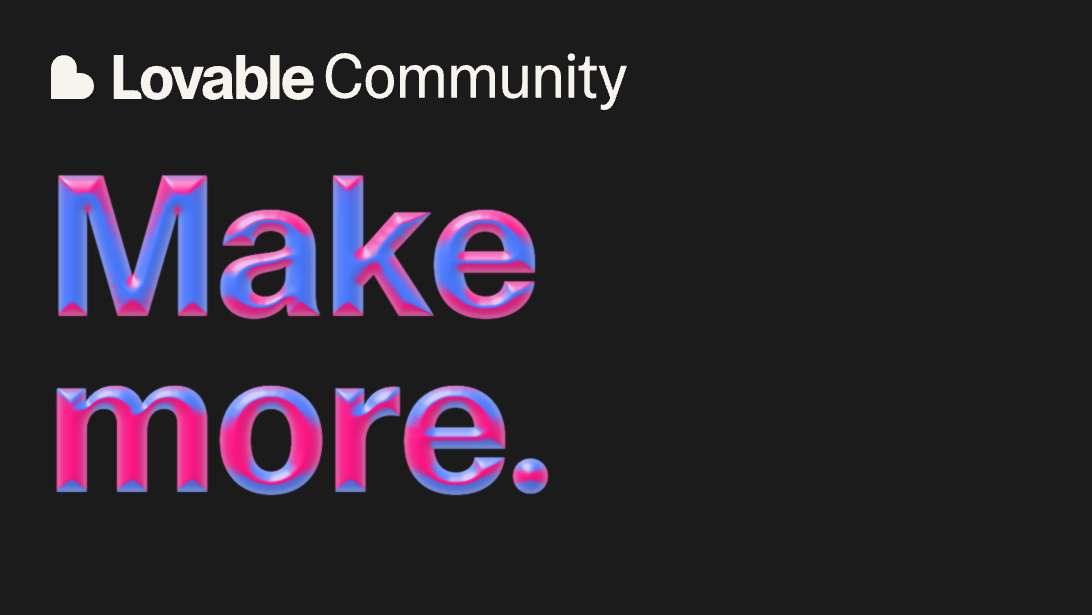
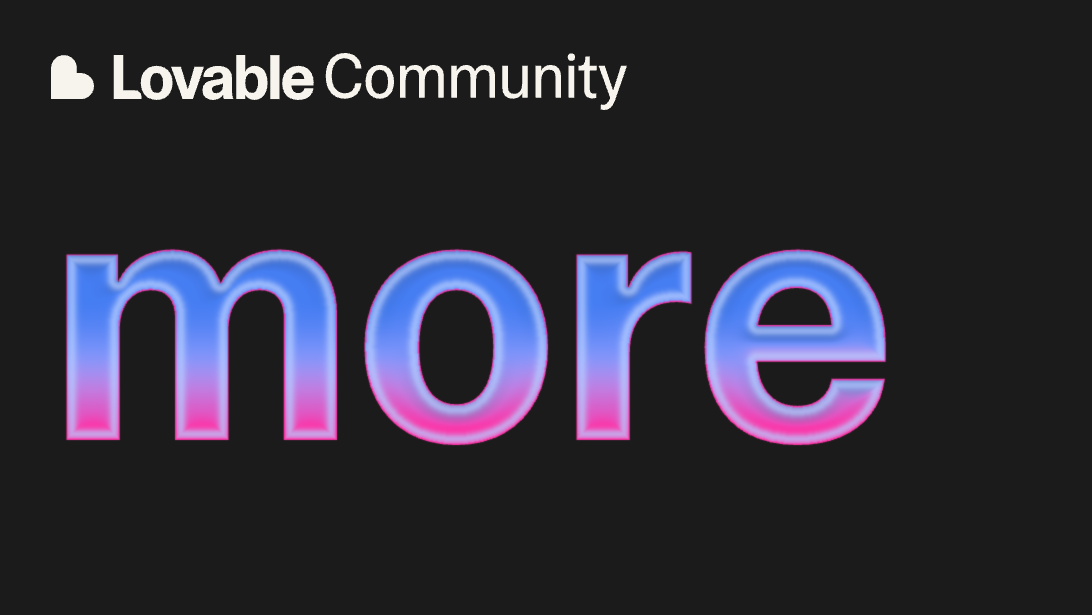
Refine soft Chrome and repair native text formatting shortcuts

Changed region(s): [[0.0311, 0.278, 0.8095, 0.8033]]

diff --git a/studio/src/components/editor-widgets/EditorTextBlock.tsx b/studio/src/components/editor-widgets/EditorTextBlock.tsx
@@ -6,6 +6,7 @@ import './editor-widget-blocks.css';
 export type TextRun = { text: string; bold?: boolean; italic?: boolean; underline?: boolean };
 export type EditorTextValue = {
   runs: TextRun[];
+  inlineFormatting?: boolean;
   style: 'Heading 1' | 'Heading 2' | 'Heading 3' | 'Text' | 'Small text';
   size: number;
   align: 'left' | 'center' | 'right';
@@ -27,7 +28,7 @@ export function textRunsFromElement(root: HTMLElement): TextRun[] {
     if (node !== root && ['DIV', 'P'].includes(node.tagName) && runs.length) runs.push({ text: '\n' });
     const weight = node.style.fontWeight;
     const next = { ...marks,
-      ...(['B', 'STRONG'].includes(node.tagName) || weight === 'bold' || Number(weight) >= 600 ? { bold: true } : weight ? { bold: false } : {}),
+      ...(['B', 'STRONG'].includes(node.tagName) || weight === 'bold' || Number(weight) >= 700 ? { bold: true } : weight ? { bold: false } : {}),
       ...(['I', 'EM'].includes(node.tagName) || node.style.fontStyle === 'italic' ? { italic: true } : node.style.fontStyle === 'normal' ? { italic: false } : {}),
       ...(node.tagName === 'U' || node.style.textDecoration.includes('underline') ? { underline: true } : node.style.textDecoration === 'none' ? { underline: false } : {}),
     };
@@ -38,8 +39,8 @@ export function textRunsFromElement(root: HTMLElement): TextRun[] {
 }
 
 /** Controlled content, selection-aware formatting, and Asset controls. No Studio dependency. */
-export function EditorTextBlock({ value, onChange, editable = true, toolbarHost }: {
-  value: EditorTextValue; onChange: (value: EditorTextValue) => void; editable?: boolean; toolbarHost?: HTMLElement | null;
+export function EditorTextBlock({ value, onChange, editable = true, toolbarHost, baseWeight, placeholder = 'Type something…', showPlaceholder = editable, onFormatBlock }: {
+  value: EditorTextValue; onChange: (value: EditorTextValue) => void; editable?: boolean; toolbarHost?: HTMLElement | null; baseWeight?: number; placeholder?: string; showPlaceholder?: boolean; onFormatBlock?: (mark: 'bold'|'italic'|'underline')=>void;
 }) {
   const root = useRef<HTMLDivElement>(null);
   const range = useRef<Range | null>(null);
@@ -52,29 +53,47 @@ export function EditorTextBlock({ value, onChange, editable = true, toolbarHost 
     if (!root.current || lastWritten.current === serialized) return;
     root.current.replaceChildren(...value.runs.map(run => {
       const span = document.createElement('span'); span.textContent = run.text;
-      if (run.bold !== undefined) span.style.fontWeight = run.bold ? '600' : '400';
+      if (run.bold !== undefined) span.style.fontWeight = run.bold ? '700' : '600';
       if (run.italic !== undefined) span.style.fontStyle = run.italic ? 'italic' : 'normal';
       if (run.underline !== undefined) span.style.textDecoration = run.underline ? 'underline' : 'none';
       return span;
     }));
     lastWritten.current = serialized;
   }, [value.runs]);
+  const boldAtSelection=()=>{
+    const selection=window.getSelection(),anchor=selection?.anchorNode;
+    const element=anchor instanceof HTMLElement?anchor:anchor?.parentElement;
+    return Number(element?getComputedStyle(element).fontWeight:baseWeight??600)>=700;
+  };
   useEffect(() => {
     const track = () => {
       const selection = window.getSelection();
       if (!selection?.rangeCount || !root.current?.contains(selection.anchorNode)) return;
       range.current = selection.getRangeAt(0).cloneRange();
-      setMarks({ bold: document.queryCommandState('bold'), italic: document.queryCommandState('italic'), underline: document.queryCommandState('underline') });
+      setMarks({ bold: boldAtSelection(), italic: document.queryCommandState('italic'), underline: document.queryCommandState('underline') });
     };
     document.addEventListener('selectionchange', track); return () => document.removeEventListener('selectionchange', track);
   }, []);
-  const commit = () => { if (!root.current) return; const runs = textRunsFromElement(root.current); lastWritten.current = JSON.stringify(runs); onChange({ ...value, runs }); };
+  const commit = () => { if (!root.current) return; const runs = textRunsFromElement(root.current); lastWritten.current = JSON.stringify(runs); onChange({ ...value, runs, ...(root.current.dataset.inlineFormatting?{inlineFormatting:true}:{}) }); };
   const format = (command: string) => {
+    if(onFormatBlock&&(!range.current||range.current.collapsed)){onFormatBlock(command as 'bold'|'italic'|'underline');return;}
     root.current?.focus();
     const selection = window.getSelection();
     if (range.current && root.current?.contains(range.current.commonAncestorContainer)) { selection?.removeAllRanges(); selection?.addRange(range.current); }
-    document.execCommand(command); commit();
-    setMarks({ bold: document.queryCommandState('bold'), italic: document.queryCommandState('italic'), underline: document.queryCommandState('underline') });
+    // Legacy block weights used to override every span. Materialize that visible
+    // weight once before allowing character-level marks to override the block.
+    if(baseWeight!==undefined&&!root.current?.dataset.inlineFormatting){
+      root.current?.querySelectorAll<HTMLElement>('span').forEach(span=>{span.style.fontWeight=getComputedStyle(span).fontWeight;});
+      root.current?.setAttribute('data-inline-formatting','true');
+    }
+    // Chromium considers 600 bold; temporarily expose it as the native normal
+    // weight while the command toggles, then restore the brand's 600 minimum.
+    const editor=root.current,weight=editor?.style.getPropertyValue('font-weight'),priority=editor?.style.getPropertyPriority('font-weight');
+    if(command==='bold'&&editor){editor.setAttribute('data-formatting-bold','true');if(Number(getComputedStyle(editor).fontWeight)<700)editor.style.setProperty('font-weight','400','important');}
+    try{document.execCommand(command);}finally{if(editor){editor.removeAttribute('data-formatting-bold');if(weight)editor.style.setProperty('font-weight',weight,priority);else editor.style.removeProperty('font-weight');}}
+
+    commit();
+    setMarks({ bold: boldAtSelection(), italic: document.queryCommandState('italic'), underline: document.queryCommandState('underline') });
   };
   const formatting = <div className="ewb-text-toolbar" role="toolbar" aria-label="Text formatting">
       <Dropdown value={value.style} listHeight="auto" onChange={style => onChange({ ...value, style: style as EditorTextValue['style'], size: styles[style as keyof typeof styles] })} items={Object.keys(styles).map(id => ({ id, label: id }))} trigger={<TriggerField size="sm" aria-label="Text style">{value.style}</TriggerField>} />
@@ -87,9 +106,16 @@ export function EditorTextBlock({ value, onChange, editable = true, toolbarHost 
     </div>;
   return <div className="ewb-text" data-editable={editable || undefined}>
     <div ref={root} className="ewb-text-content" contentEditable={editable} suppressContentEditableWarning role={editable ? 'textbox' : undefined} aria-label="Text block content" aria-multiline="true" tabIndex={editable ? 0 : undefined}
-      data-placeholder={'Write or type "/" for commands…'} onInput={commit}
+      data-placeholder={placeholder} data-show-placeholder={showPlaceholder||undefined} data-empty={!value.runs.some(run=>run.text.trim())||undefined} data-inline-formatting={value.inlineFormatting||undefined} onInput={commit}
+      onKeyDown={event=>{
+        if(event.nativeEvent.isComposing||event.altKey||event.shiftKey||!(event.metaKey||event.ctrlKey))return;
+        const command=({b:'bold',i:'italic',u:'underline'} as Record<string,string>)[event.key.toLowerCase()];
+        if(!command)return;event.preventDefault();event.stopPropagation();
+        const selection=window.getSelection();if(selection?.rangeCount&&root.current?.contains(selection.anchorNode))range.current=selection.getRangeAt(0).cloneRange();
+        format(command);
+      }}
       onPaste={event => { event.preventDefault(); document.execCommand('insertText', false, event.clipboardData.getData('text/plain')); commit(); }}
-      style={{ fontSize: value.size, fontWeight: value.style.startsWith('Heading') ? 600 : 400, textAlign: value.align, color: value.color } as CSSProperties} />
+      style={{ fontSize: value.size, fontWeight: baseWeight??(value.style.startsWith('Heading') ? 700 : 600), textAlign: value.align, color: value.color } as CSSProperties} />
     {editable && (toolbarHost ? createPortal(formatting, toolbarHost) : formatting)}
   </div>;
 }

diff --git a/studio/src/studio/HtmlEditorV1.tsx b/studio/src/studio/HtmlEditorV1.tsx
@@ -1,3 +1,4 @@
+import {toggleCanvasTextMark} from './textShortcuts';
 import {ShaderSurface} from '../shaders/Surface';
 import {HtmlCanvasVideo} from './HtmlCanvasVideo';
 import {useMakerDesign} from '../assets-tool/MakerDesignContext';
@@ -387,8 +388,8 @@ export function HtmlEditorV1({initialDesign, canvasOnly=false, zoom=1, imageSour
               <div id={`block-${block.id}`} className="hev-block" data-image-hidden={block.kind==='image'&&block.editor?.appearance?.imageVisible===false||undefined} data-generating={progress?.blockIds.includes(block.id)||undefined} aria-busy={progress?.blockIds.includes(block.id)||undefined} style={htmlFrameStyle(block)} data-editing={canvasSelection.editingId===block.id||undefined} data-locked={block.editor?.locked||undefined} draggable={!canvasSelection.mode && editable && ['image','pdf','media'].includes(block.kind)} onDragStart={e=>{if(!editable)return;e.stopPropagation();e.dataTransfer.setData('application/x-asset-block',block.id);e.dataTransfer.effectAllowed='move';setDragging(block.id);}} onDragEnd={()=>{setDragging(undefined);setDrop('');}} data-kind={block.kind} data-list={block.kind==='text'?block.value.list:undefined} data-play-icon={block.kind==='image'&&block.value.playIcon||undefined} data-style={block.kind === 'text' ? block.value.style : undefined} data-selected={(canvasSelection.enabled?canvasSelection.ids.includes(block.id):selected?.id === `block-${block.id}`) || undefined} onClick={e => { if (editable) setSelected((e.target as HTMLElement).closest('[data-workspace-widget]') ?? e.currentTarget); }}>
                 {editable && <div className="hev-block-tools"><Tooltip label="Drag to move"><button type="button" className="hev-drag" draggable aria-label={`Move ${contentTypes.find(t => t.id === block.kind)?.label}`} onDragStart={e => { e.dataTransfer.setData('application/x-asset-block', block.id); e.dataTransfer.effectAllowed = 'move'; setDragging(block.id); }} onDragEnd={() => { setDragging(undefined); setDrop(''); }}>{icon('grip-vertical')}</button></Tooltip><Dropdown width={190} align="end" listHeight="auto" items={[{ id: 'up', label: 'Move up', disabled: index === 0 }, { id: 'down', label: 'Move down', disabled: index === column.length - 1 }, ...(block.kind === 'cta' ? [{ id: 'edit', label: 'Edit button' }] : []), ...(block.kind === 'pdf' ? [{ id: 'replace', label: 'Replace PDF' }] : []), { id: 'delete', label: 'Delete block' }]} onChange={action => { if (action === 'edit' && block.kind === 'cta') setButtonEdit(block); else if (action === 'delete') removeBlock(block.id); else if (action === 'replace') pickFile(block.id, 'pdf'); else save(moveHtmlBlock(stateRef.current, block.id, section.id, c, action === 'up' ? index - 1 : index + 2)); }} trigger={<Button size="sm" variant="ghost" aria-label={`${contentTypes.find(t => t.id === block.kind)?.label} block options`}>{icon('ellipsis')}</Button>} /></div>}
                 <EditorWidgetToolbarContext.Provider value={canvasSelection.mode?{host:canvasSelection.ids.length===1&&canvasSelection.ids[0]===block.id?canvasSelection.widgetToolbarHost:null,identityHost:canvasSelection.ids.length===1&&canvasSelection.ids[0]===block.id?canvasSelection.widgetIdentityHost:null,advancedDesign:canvasSelection.ids.length===1&&canvasSelection.ids[0]===block.id?canvasSelection.widgetDesign:null,disabled:!!block.editor?.locked||!!section.locked}:null}><div className="hcs-block-content" inert={canvasSelection.enabled && (canvasSelection.editingId!==block.id || block.editor?.locked) || undefined}>
-                {block.kind === 'text' && (insertPanel.enabled ? <HtmlTextSlashMenu editable={editable && (!canvasSelection.mode || canvasSelection.editingId === block.id) && !block.editor?.locked} empty={!block.value.runs.some(run => run.text.trim())}><EditorTextBlock toolbarHost={canvasSelection.mode ? canvasSelection.textToolbarHost : undefined} value={block.value} editable={editable && (!canvasSelection.mode || canvasSelection.editingId === block.id) && !block.editor?.locked} onChange={value => blockChange(block.id, { ...block, value })} /></HtmlTextSlashMenu> : <div className="ewb-root" onKeyDownCapture={event => {
-                  if (event.key !== '/' || !editable) return;
+                {block.kind === 'text' && (insertPanel.enabled ? <HtmlTextSlashMenu editable={editable && (!canvasSelection.mode || canvasSelection.editingId === block.id) && !block.editor?.locked} empty={!block.value.runs.some(run => run.text.trim())}><EditorTextBlock onFormatBlock={canvasOnly?mark=>save(toggleCanvasTextMark(stateRef.current,[block.id],mark)):undefined} baseWeight={canvasOnly?(block.editor?.appearance?.fontWeight??600):undefined} showPlaceholder={editable} placeholder={canvasOnly?'Type something…':'Write or type \"/\" for commands…'} toolbarHost={canvasSelection.mode ? canvasSelection.textToolbarHost : undefined} value={block.value} editable={editable && (!canvasSelection.mode || canvasSelection.editingId === block.id) && !block.editor?.locked} onChange={value => blockChange(block.id, { ...block, value })} /></HtmlTextSlashMenu> : <div className="ewb-root" onKeyDownCapture={event => {
+                  if (canvasOnly || event.key !== '/' || !editable) return;
                   const target = event.target as HTMLElement;
                   if (!target.isContentEditable) return;
                   const selection = window.getSelection();
@@ -396,7 +397,7 @@ export function HtmlEditorV1({initialDesign, canvasOnly=false, zoom=1, imageSour
                   const range = selection.getRangeAt(0).cloneRange(); range.selectNodeContents(target); range.setEnd(selection.anchorNode!, selection.anchorOffset);
                   if ((range.toString().split('\n').at(-1) ?? '').trim()) return;
                   event.preventDefault(); setInsertAt(`${section.id}:${c}:${index + 1}`);
-                }}><EditorTextBlock toolbarHost={canvasSelection.mode ? canvasSelection.textToolbarHost : undefined} value={block.value} editable={editable && (!canvasSelection.mode || canvasSelection.editingId === block.id) && !block.editor?.locked} onChange={value => blockChange(block.id, { ...block, value })} /></div>)}
+                }}><EditorTextBlock onFormatBlock={canvasOnly?mark=>save(toggleCanvasTextMark(stateRef.current,[block.id],mark)):undefined} baseWeight={canvasOnly?(block.editor?.appearance?.fontWeight??600):undefined} showPlaceholder={editable} placeholder={canvasOnly?'Type something…':'Write or type \"/\" for commands…'} toolbarHost={canvasSelection.mode ? canvasSelection.textToolbarHost : undefined} value={block.value} editable={editable && (!canvasSelection.mode || canvasSelection.editingId === block.id) && !block.editor?.locked} onChange={value => blockChange(block.id, { ...block, value })} /></div>)}
                 {block.kind === 'image' && <div className="ewb-root"><EditorImageBlock value={{...block.value,src:block.techArtwork?renderedTechSource(block):(imageSources[block.value.src]??block.value.src)}} editable={editable && !canvasSelection.mode} onChange={value => blockChange(block.id, { ...block, value:{...value,src:value.src===(block.techArtwork?renderedTechSource(block):(imageSources[block.value.src]??block.value.src))?block.value.src:value.src} })} onReplace={() => pickFile(block.id, 'image')} onRemove={() => removeBlock(block.id)} /></div>}
                 {block.kind === 'pdf' && <button type="button" className="hev-pdf" onClick={() => setPdf(block)}><span className="hev-pdf-icon"><Icon name="file-text" size={24} /></span><span><strong>{block.name}</strong><small>PDF document</small></span><span className="hev-pdf-open">View PDF {icon('arrow-up-right')}</span></button>}
                 {block.kind === 'contacts' && <WorkspaceContactCard id={block.id} name="Sam Taylor" role="Customer success" email="sam@example.com" layout="horizontal" />}

diff --git a/studio/src/shaders/gpu.ts b/studio/src/shaders/gpu.ts
@@ -4,7 +4,7 @@ import { defineShader, wgsl, Scalar } from 'shaders/std';
 import type { ShaderEffect } from './settings';
 
 // Authored locally from the MIT engine's public custom-component API. No library presets.
-function makeMaterial(normals:HTMLCanvasElement) {
+function makeMaterial(normals:HTMLCanvasElement,top:number,height:number) {
   let normalTexture:ReturnType<NonNullable<import('shaders/core').GpuShaderDefinition['fragment']>>;
   const definition=defineShader({
   name:'StudioMaterial',
@@ -26,17 +26,24 @@ function makeMaterial(normals:HTMLCanvasElement) {
     var color = sampleColor.rgb / max(alpha, 0.00001);
     if (mode < 0.5) {
       let encoded = vec3f(normalX,normalY,normalZ);
-      let n = normalize(encoded * 2.0 - 1.0);
-      let light = normalize(vec3f(sin(t * 0.65) * 0.65 - 0.3, -0.75, 0.9));
-      let reflection = dot(n, light);
-      let band = sin(uv.y * 5.5 + n.y * 3.8 + sin(t * 0.5) * 0.6);
-      let pink = vec3f(1.0,0.08,0.52);
-      let blue = vec3f(0.28,0.47,1.0);
-      var metal = mix(pink, blue, smoothstep(-0.65,0.75,band));
-      metal *= 0.8 + 0.25 * reflection;
-      let shine = pow(max(0.0,reflection), 16.0);
-      let rim = pow(1.0 - max(n.z,0.0),1.5);
-      metal = mix(metal, vec3f(0.91,0.87,1.0), clamp(shine * 0.9 + rim * 0.75,0.0,0.85));
+      let xy = encoded.xy * 2.0 - 1.0;
+      let n = normalize(vec3f(xy,sqrt(max(0.01,1.0-dot(xy,xy)))));
+      let depth = encoded.z;
+      // One broad reflected environment, with a soft rolled edge rather than
+      // alternating bands or a faceted metal bevel.
+      let drift = sin(t * 0.38) * 0.09;
+      let blue = vec3f(0.27,0.49,0.95);
+      let lavender = vec3f(0.63,0.64,1.0);
+      let pink = vec3f(1.0,0.19,0.65);
+      let vertical = clamp((uv.y - ${top.toFixed(6)}) / ${height.toFixed(6)} + drift + n.y * 0.18,0.0,1.0);
+      var metal = mix(blue,lavender,smoothstep(0.25,0.75,vertical));
+      metal = mix(metal,pink,smoothstep(0.50,1.05,vertical));
+      let upperShade = max(-n.y,0.0) * 0.24;
+      metal *= 1.0 - upperShade;
+      let rolledLight = exp(-pow((depth-0.27)/0.22,2.0));
+      metal = mix(metal,vec3f(0.71,0.80,1.0),rolledLight * 0.7);
+      let pinkRim = 1.0-smoothstep(0.025,0.13,depth);
+      metal = mix(metal,pink,pinkRim * 0.9);
       color = mix(color, metal, a);
     } else if (mode < 1.5) {
       let offset = vec2f(0.0025 * a / aspect,0.0);
@@ -67,7 +74,7 @@ export async function createEffectRenderer(source:HTMLCanvasElement,output:HTMLC
   const gpuCanvas=document.createElement('canvas');
   gpuCanvas.width=source.width;gpuCanvas.height=source.height;
   gpuCanvas.style.width=`${source.width}px`;gpuCanvas.style.height=`${source.height}px`;
-  const renderer=shaderRendererGPU(),normals=makeNormalMap(source),effectDefinition=makeMaterial(normals);
+  const renderer=shaderRendererGPU(),relief=makeNormalMap(source),normals=relief.canvas,effectDefinition=makeMaterial(normals,relief.top,relief.height);
   const sourceDefinition=defineShader({name:'StudioNativeSource',role:'media',species:'custom',props:{},gpu:{fragment(params){
     const texture=params.createMediaTexture({width:source.width,height:source.height,label:'Studio native artwork'});
     texture.write(source);

diff --git a/studio/src/studio/HtmlCanvasSelection.tsx b/studio/src/studio/HtmlCanvasSelection.tsx
@@ -1,3 +1,4 @@
+import {textShortcut,toggleCanvasTextMark} from './textShortcuts';
 import {MediaWindowDesign} from './MediaWindowDesign';
 import {IconDesignControls} from './IconDesignControls';
 import {ElementTransformContext,ElementBlendPreviewContext} from './ElementTransformControls';
@@ -459,6 +460,10 @@ export function useHtmlCanvasSelection({ root, state, pageId, editable, zoom = 1
       if(gesture.current||marqueeStart.current){if((e.metaKey||e.ctrlKey)&&e.key.toLowerCase()==='z'){e.preventDefault();finish(true);}return;}
       if((e.metaKey||e.ctrlKey)&&e.key.toLowerCase()==='a'){e.preventDefault();if(insertPanel.enabled&&sectionSelection){setSectionIds(page.sections.map(s=>s.id));return;}choose(page.sections.filter(s=>!s.locked).flatMap(s=>s.columns.flat()).filter(b=>!b.editor?.locked&&!b.editor?.hidden).map(b=>b.id));return;}
       if(locked)return;
+      if(!sectionSelection&&(e.metaKey||e.ctrlKey)&&!e.altKey&&!e.shiftKey){
+        const mark=textShortcut(e.key);
+        if(mark){const next=toggleCanvasTextMark(source.current,ids,mark);if(next!==source.current){e.preventDefault();e.stopPropagation();if(!e.repeat)save(next);}return;}
+      }
       if(!sectionSelection&&(e.metaKey||e.ctrlKey)&&!e.altKey&&e.key.toLowerCase()==='g'){e.preventDefault();if(!e.repeat){const next=canvasLayerAction(source.current,ids,e.shiftKey?'ungroup':'group',crypto.randomUUID());if(next!==source.current)save(next);}return;}
       if(layeredSelection&&(e.metaKey||e.ctrlKey)&&(e.code==='BracketLeft'||e.code==='BracketRight')){e.preventDefault();arrange(e.code==='BracketRight'?(e.shiftKey?'bring-to-front':'bring-forward'):(e.shiftKey?'send-to-back':'send-backward'));return;}
       if(e.key==='Delete'||e.key==='Backspace'){e.preventDefault();action('delete');}
@@ -594,7 +599,7 @@ export function useHtmlCanvasSelection({ root, state, pageId, editable, zoom = 1
       onResizeWithSection={one.kind==='image'?(follow:boolean)=>{const el=element(one.id);if(!el||locked)return;changeBlock({...one,editor:{...one.editor,...imageSectionSizing(follow,el.offsetWidth,el.parentElement!.clientWidth)}});}:undefined}
       onChange={(appearance:NonNullable<ElementFrame['appearance']>)=>{
         const next={...one,editor:{...one.editor,appearance:{...one.editor?.appearance,...appearance}}};
-        if(next.kind==='text') next.value={...next.value,...(appearance.fill!==undefined?{color:appearance.fill}:{}),...(appearance.fontSize!==undefined?{size:appearance.fontSize}:{}),...(appearance.textAlign!==undefined?{align:appearance.textAlign}:{}),runs:next.value.runs.map(run=>({...run,...(appearance.fontWeight!==undefined?{bold:appearance.fontWeight>=600}:{}),...(appearance.italic!==undefined?{italic:appearance.italic}:{}),...(appearance.underline!==undefined?{underline:appearance.underline}:{})}))};
+        if(next.kind==='text'){save(patchSelectionAppearance(source.current,[one.id],appearance));return;}
         changeBlock(next);
       }} onReplace={()=>onReplace(one.id)} onClose={()=>{setDesign(false);host.closePanel();}} /> </div>,host.panelHost)}
   </ElementTransformContext.Provider></ElementBlendPreviewContext.Provider>;

diff --git a/studio/src/shaders/normalMap.ts b/studio/src/shaders/normalMap.ts
@@ -20,10 +20,11 @@ export function makeNormalMap(source:HTMLCanvasElement){
  normal.width=width;normal.height=height;
  const relief=new Float32Array(width*height),hasSilhouette=pixels.data.some((a,i)=>i%4===3&&a<128),radius=Math.max(3,Math.min(width,height)*.065);
  const distance=hasSilhouette?silhouetteDistance(pixels.data,width,height):undefined;
- for(let i=0;i<relief.length;i++)relief[i]=distance?Math.sqrt(Math.max(0,1-Math.max(0,1-distance[i]/radius)**2)):(pixels.data[i*4]*.2126+pixels.data[i*4+1]*.7152+pixels.data[i*4+2]*.0722)/255*.3;
+ let top=height,bottom=0;for(let y=0;y<height;y++)for(let x=0;x<width;x++)if(pixels.data[(y*width+x)*4+3]>127){top=Math.min(top,y);bottom=Math.max(bottom,y+1);}
+ for(let i=0;i<relief.length;i++)relief[i]=distance?1-Math.exp(-distance[i]/radius*3.2):(pixels.data[i*4]*.2126+pixels.data[i*4+1]*.7152+pixels.data[i*4+2]*.0722)/255*.3;
  // Smooth the height field before deriving normals, preventing staircase reflections
  // around curved glyphs while retaining the original alpha silhouette exactly.
- const scratch=new Float32Array(relief.length),blurRadius=2;
+ const scratch=new Float32Array(relief.length),blurRadius=Math.max(2,Math.round(radius*.18));
  for(let pass=0;pass<2;pass++){
   for(let y=0;y<height;y++)for(let x=0;x<width;x++){let sum=0;for(let d=-blurRadius;d<=blurRadius;d++)sum+=relief[y*width+Math.max(0,Math.min(width-1,x+d))];scratch[y*width+x]=sum/(blurRadius*2+1);}
   for(let y=0;y<height;y++)for(let x=0;x<width;x++){let sum=0;for(let d=-blurRadius;d<=blurRadius;d++)sum+=scratch[Math.max(0,Math.min(height-1,y+d))*width+x];relief[y*width+x]=sum/(blurRadius*2+1);}
@@ -34,7 +35,8 @@ export function makeNormalMap(source:HTMLCanvasElement){
   const dx=((at(x+1,y-1)+2*at(x+1,y)+at(x+1,y+1))-(at(x-1,y-1)+2*at(x-1,y)+at(x-1,y+1)))*radius/8;
   const dy=((at(x-1,y+1)+2*at(x,y+1)+at(x+1,y+1))-(at(x-1,y-1)+2*at(x,y-1)+at(x+1,y-1)))*radius/8;
   const length=Math.hypot(dx,dy,1),i=(y*width+x)*4;
-  result.data[i]=(0.5-dx/length*.5)*255;result.data[i+1]=(0.5-dy/length*.5)*255;result.data[i+2]=(0.5+1/length*.5)*255;result.data[i+3]=255;
+  // Pack the XY normal and normalized distance-to-edge; alpha stays opaque.
+  result.data[i]=(0.5-dx/length*.5)*255;result.data[i+1]=(0.5-dy/length*.5)*255;result.data[i+2]=distance?Math.min(1,distance[y*width+x]/radius)*255:255;result.data[i+3]=255;
  }
- normal.getContext('2d')!.putImageData(result,0,0);return normal;
+ normal.getContext('2d')!.putImageData(result,0,0);return {canvas:normal,top:top<bottom?top/height:0,height:top<bottom?(bottom-top)/height:1};
 }

diff --git a/studio/src/shaders/source.ts b/studio/src/shaders/source.ts
@@ -13,6 +13,7 @@ async function snapshot(element:HTMLElement,fontEmbedCSS:string,whole=false){
   const originals=[...element.querySelectorAll('canvas')],copies=[...clone.querySelectorAll('canvas')];
   copies.forEach((canvas,i)=>{const original=originals[i];canvas.width=original.width;canvas.height=original.height;if(original.width&&original.height)canvas.getContext('2d')?.drawImage(original,0,0);});
   const width=element.offsetWidth,height=element.offsetHeight,size=canvasSize(width,height);
+  clone.querySelectorAll('[data-show-placeholder]').forEach(node=>node.removeAttribute('data-show-placeholder'));
   clone.removeAttribute('id');clone.removeAttribute('data-editing');clone.setAttribute('data-shader-capture','');clone.inert=true;
   Object.assign(clone.style,{position:'relative',left:'0px',top:'0',width:`${width}px`,height:`${height}px`,minHeight:'0',transform:'none',opacity:'1',filter:'none',mixBlendMode:'normal',outline:'none',pointerEvents:'none'});
   clone.style.setProperty('--shader-source-opacity','1');
@@ -25,7 +26,7 @@ async function snapshot(element:HTMLElement,fontEmbedCSS:string,whole=false){
     if(video.readyState>=2)canvas.getContext('2d')!.drawImage(video,0,0);
     const style=getComputedStyle(video);for(const property of style)canvas.style.setProperty(property,style.getPropertyValue(property));copy.replaceWith(canvas);
   });
-  const host=document.createElement('div');Object.assign(host.style,{position:'fixed',left:'-50000px',top:'0',width:`${width}px`,height:`${height}px`,pointerEvents:'none'});host.append(clone);element.parentElement!.append(host);
+  const host=document.createElement('div');host.setAttribute('aria-hidden','true');host.inert=true;Object.assign(host.style,{position:'fixed',left:'-50000px',top:'0',width:`${width}px`,height:`${height}px`,pointerEvents:'none'});host.append(clone);element.parentElement!.append(host);
   try{
     return await toCanvas(clone,{width,height,canvasWidth:size.width,canvasHeight:size.height,pixelRatio:1,fontEmbedCSS,style:{position:'relative',left:'0',top:'0',margin:'0',transform:'none'},
     filter:node=>!(node instanceof Element&&(node.hasAttribute('data-editor-only')||node.matches('.hcs-ui,.hev-block-tools')||node.matches('.studio-shader-surface')&&node.parentElement===clone))});}

diff --git a/studio/src/studio/PresentationElementDesign.tsx b/studio/src/studio/PresentationElementDesign.tsx
@@ -103,7 +103,7 @@ function StudioTextControls({ value, locked, onChange, mixed = {} }) {
       const isMixed=mixed[mark==='bold'?'fontWeight':mark];
       const active = !isMixed && (mark === 'bold' ? value.fontWeight >= 700 : value[mark]);
       const label = mark[0].toUpperCase() + mark.slice(1);
-      return <Asset.Tooltip key={mark} label={label} side="bottom"><Asset.Button variant="neutral" aria-label={label} aria-pressed={isMixed?'mixed':active} active={active} disabled={locked} leadingIcon={<LucideGlyph name={mark==='uppercase'?'case-upper':mark} size={16} />} onClick={() => onChange(mark === 'bold' ? { fontWeight: active ? 400 : 700 } : { [mark]: !active })} /></Asset.Tooltip>;
+      return <Asset.Tooltip key={mark} label={label} side="bottom"><Asset.Button variant="neutral" aria-label={label} aria-pressed={isMixed?'mixed':active} active={active} disabled={locked} leadingIcon={<LucideGlyph name={mark==='uppercase'?'case-upper':mark} size={16} />} onClick={() => onChange(mark === 'bold' ? { fontWeight: active ? 600 : 700 } : { [mark]: !active })} /></Asset.Tooltip>;
     })}</div></div>
     <div className="hcs-design-design-row"><span>Alignment</span><div className="hcs-design-text-buttons" role="group" aria-label="Text alignment">{['left', 'center', 'right'].map(align => <Asset.Tooltip key={align} label={`Align ${align}`} side="bottom"><Asset.Button variant="neutral" aria-label={`Align ${align}`} aria-pressed={mixed.textAlign?'mixed':value.textAlign === align} active={!mixed.textAlign&&value.textAlign === align} disabled={locked} leadingIcon={<Asset.Icon name={`align-${align}`} size={16} />} onClick={() => onChange({ textAlign: align })} /></Asset.Tooltip>)}</div></div>
     <div className="hcs-design-design-row hcs-design-design-section"><span>Letter spacing</span><StudioShapeNumber label="Letter spacing" mixed={mixed.letterSpacing} min={-20} max={100} value={value.letterSpacing} onChange={letterSpacing => onChange({ letterSpacing })} /></div>

diff --git a/studio/src/components/editor-widgets/editor-widget-blocks.css b/studio/src/components/editor-widgets/editor-widget-blocks.css
@@ -4,7 +4,7 @@
 .ewb-text-content { min-height: 132px; padding: var(--ui-space-4); white-space: pre-wrap; overflow-wrap: anywhere; line-height: 1.5; outline: none; }
 .ewb-text[data-editable] .ewb-text-content { border: 1px solid var(--ui-divider); }
 .ewb-text[data-editable] .ewb-text-content:hover, .ewb-text-content:focus { border-color: var(--ui-accent); }
-.ewb-text-content:empty::before { content: attr(data-placeholder); color: var(--ui-text-muted); pointer-events: none; }
+.ewb-text-content[data-show-placeholder][data-empty]::before { content: attr(data-placeholder); color: var(--ui-text-muted); pointer-events: none; }
 .ewb-text-toolbar { display: flex; flex-wrap: wrap; align-items: center; gap: var(--ui-space-1); margin-top: var(--ui-space-2); padding: var(--ui-space-1); border: 1px solid var(--ui-divider); border-radius: var(--ui-radius-section); background: var(--ui-bg); width: fit-content; max-width: 100%; }
 .ewb-text-size { width: 56px; }
 .ewb-toolbar-divider { width: 1px; height: 20px; background: var(--ui-divider); margin-inline: var(--ui-space-1); }
@@ -160,3 +160,9 @@
 .ewb-contact-picker .ui-dialog-header-text { padding-top: 0; }
 .ewb-contact-picker .ui-dialog-close { position: absolute; right: var(--ui-space-6); top: var(--ui-space-5); }
 .ewb-contact-picker.ui-dialog[data-dividers] > .ui-dialog-footer { padding-bottom: var(--ui-space-6); }
+
+/* Empty text is an editor affordance, never artwork or exported copy. */
+.ewb-text-content:not([data-show-placeholder])::before {content:none!important;}
+.ewb-text-content[data-inline-formatting] span[style*="font-weight: normal"],.ewb-text-content[data-inline-formatting] span[style*="font-weight: 400"] {font-weight:600!important;}
+
+.ewb-text-content[data-formatting-bold] span[style*="font-weight: normal"],.ewb-text-content[data-formatting-bold] span[style*="font-weight: 400"],.ewb-text-content[data-formatting-bold] span[style*="font-weight: 600"] {font-weight:400!important;}

diff --git a/studio/src/studio/textShortcuts.ts b/studio/src/studio/textShortcuts.ts
@@ -1,0 +1,16 @@
+import type {HtmlBlock,HtmlEditorState} from './htmlEditorModel';
+import {patchSelectionAppearance} from './selectionAppearance';
+export type TextMark='bold'|'italic'|'underline';
+export function textShortcut(key:string){return ({b:'bold',i:'italic',u:'underline'} as Record<string,TextMark>)[key.toLowerCase()];}
+/** Match the visible legacy block weight, then explicit character marks. */
+export function textMarkActive(block:Extract<HtmlBlock,{kind:'text'}>,mark:TextMark){
+ const appearance=block.editor?.appearance,base=mark==='bold'?(appearance?.fontWeight??600)>=700:!!appearance?.[mark];
+ if(mark==='bold'&&!block.value.inlineFormatting&&appearance?.fontWeight!==undefined)return base;
+ return block.value.runs.length?block.value.runs.every(run=>run[mark]??base):base;
+}
+export function toggleCanvasTextMark(state:HtmlEditorState,ids:string[],mark:TextMark){
+ const selected=new Set(ids),texts=state.pages.flatMap(p=>p.sections.filter(s=>!s.locked).flatMap(s=>s.columns.flat())).filter((b):b is Extract<HtmlBlock,{kind:'text'}>=>b.kind==='text'&&selected.has(b.id)&&!b.editor?.locked);
+ if(!texts.length)return state;
+ const enabled=!texts.every(block=>textMarkActive(block,mark));
+ return patchSelectionAppearance(state,texts.map(block=>block.id),mark==='bold'?{fontWeight:enabled?700:600}:{[mark]:enabled});
+}

diff --git a/studio/src/studio/html-canvas-selection.css b/studio/src/studio/html-canvas-selection.css
@@ -36,7 +36,8 @@
 .hcs-toolbar { position: absolute; z-index: var(--ui-z-panel); display: flex; width: max-content; max-width:none; flex-wrap: nowrap; gap: var(--ui-space-1); padding: var(--ui-space-1); border-radius: var(--ui-segmented-radius); background: var(--ui-bg); box-shadow: var(--ui-shadow-surface); transform: translateX(-50%); pointer-events: auto; }
 .hcs-toolbar > *, .hcs-native-widget-toolbar > * { flex-shrink:0; }
 .hcs-toolbar .ui-btn[data-size] { border-radius: var(--ui-segmented-radius); transition: none; }
-.hev .hev-section .hev-block[style*="--hcs-text-weight"] .ewb-text-content span { font-weight:var(--hcs-text-weight)!important; }
+.hev .hev-section .hev-block[style*="--hcs-text-weight"] .ewb-text-content:not([data-inline-formatting]) span { font-weight:var(--hcs-text-weight)!important; }
+.hev .hev-section .hev-block[style*="--hcs-text-weight"] .ewb-text-content {font-weight:var(--hcs-text-weight)!important;}
 .workspace-widget-panelhost .hcs-design-design-panel { width:100%;max-width:none;height:100%;font-family:var(--ui-font); }
 .hev[data-selection-mode] .hcs-gap {position:relative;display:flex;align-items:center;justify-content:center;}
 .hev[data-selection-mode] .hcs-gap[data-gap=block] {height:var(--hev-block-gap,24px);min-height:0;margin:0;}

diff --git a/studio/src/assets-tool/shaderDemo.ts b/studio/src/assets-tool/shaderDemo.ts
@@ -19,7 +19,7 @@ export async function shaderDemoAssets(){
     if(index===1)return [{id:'shader-image',kind:'image',value:{src:'/holiday/gradient.webp',alt:'Lovable gradient',caption:'',alignment:'center',width:100},editor}];
     return block.kind==='media'?[{...block,id:'shader-video',autoplay:true,mediaWindow:undefined,editor}]:[];
    }
-   if(block.kind==='text'&&block.id==='holiday-title')return [{...block,value:{...block.value,runs:[{text:['Make\nmore.','See things\ndifferently.','Keep\nmoving.'][index]}],size:index===0?200:145},editor:{...block.editor,x:45,y:index===0?160:195,widthPx:990,height:370,appearance:{...block.editor?.appearance,fontSize:index===0?200:145,lineHeight:88,shader:index===0?{...newShaderEffect('chrome'),intensity:100}:undefined}}}];
+   if(block.kind==='text'&&block.id==='holiday-title')return [{...block,value:{...block.value,runs:[{text:['more','See things\ndifferently.','Keep\nmoving.'][index]}],size:index===0?360:145},editor:{...block.editor,x:45,y:index===0?160:195,widthPx:990,height:370,appearance:{...block.editor?.appearance,fontSize:index===0?360:145,lineHeight:88,shader:index===0?{...newShaderEffect('chrome'),intensity:100}:undefined}}}];
    if(block.id==='holiday-cta')return [];
    return [block];
   });

diff --git a/studio/src/studio/selectionAppearance.ts b/studio/src/studio/selectionAppearance.ts
@@ -21,7 +21,7 @@ export function patchSelectionAppearance(state:HtmlEditorState,ids:string[],appe
     block.editor={...block.editor,...(appearance.opacity!==undefined?{opacity:undefined}:{}),appearance:{...block.editor?.appearance,...appearance}};
     if(block.kind==='text')block.value={...block.value,
       ...(appearance.fill!==undefined?{color:appearance.fill}:{}),...(appearance.fontSize!==undefined?{size:appearance.fontSize}:{}),...(appearance.textAlign!==undefined?{align:appearance.textAlign}:{}),
-      runs:block.value.runs.map(run=>({...run,...(appearance.fontWeight!==undefined?{bold:appearance.fontWeight>=600}:{}),...(appearance.italic!==undefined?{italic:appearance.italic}:{}),...(appearance.underline!==undefined?{underline:appearance.underline}:{})}))};
+      runs:block.value.runs.map(run=>({...run,...(appearance.fontWeight!==undefined?{bold:undefined}:{}),...(appearance.italic!==undefined?{italic:appearance.italic}:{}),...(appearance.underline!==undefined?{underline:appearance.underline}:{})}))};
   }
   return next;
 }
